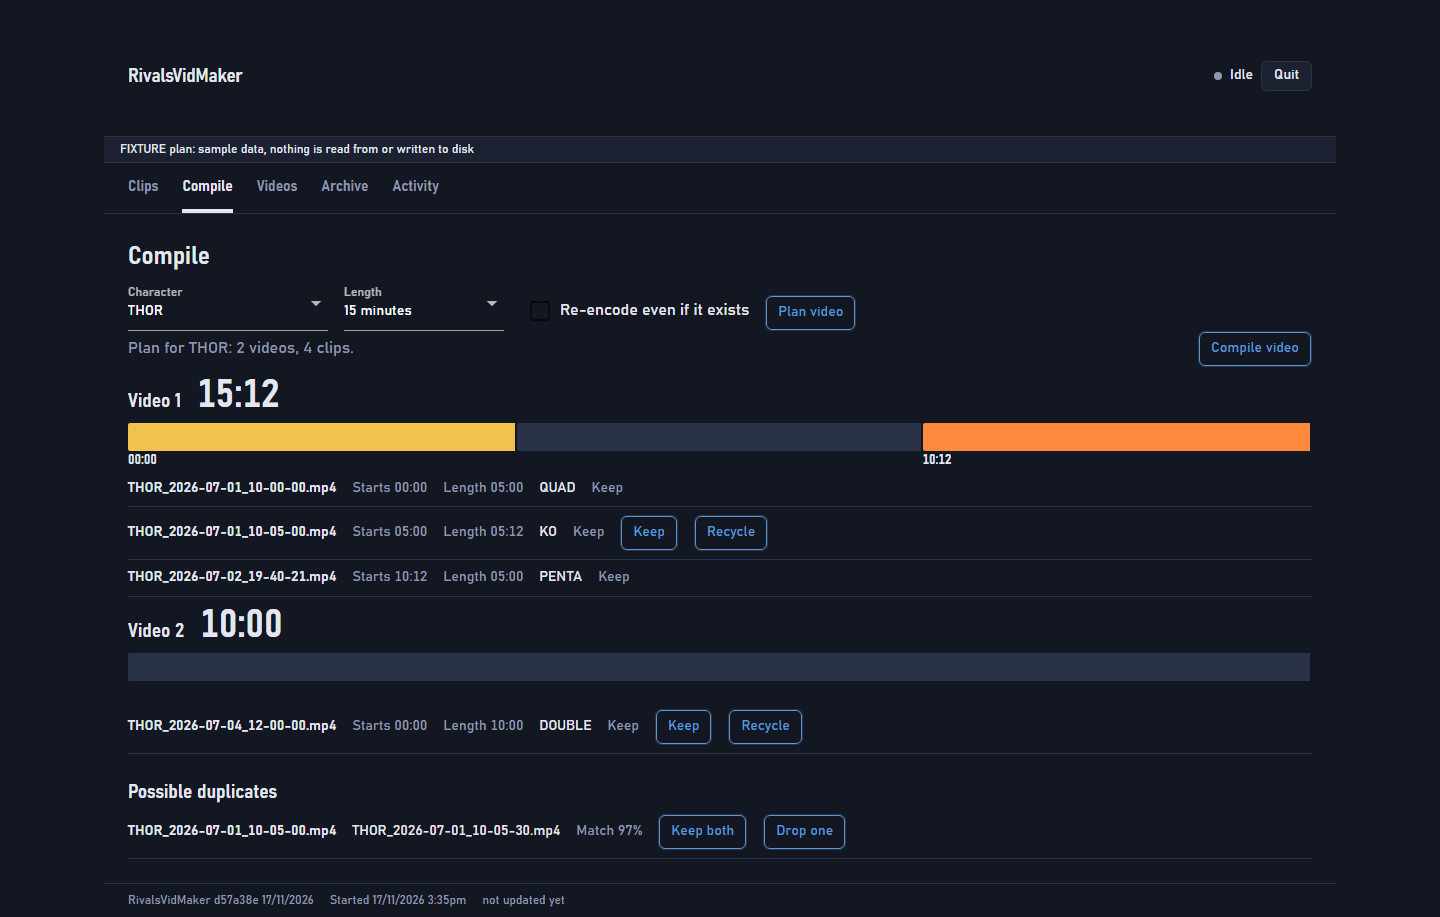
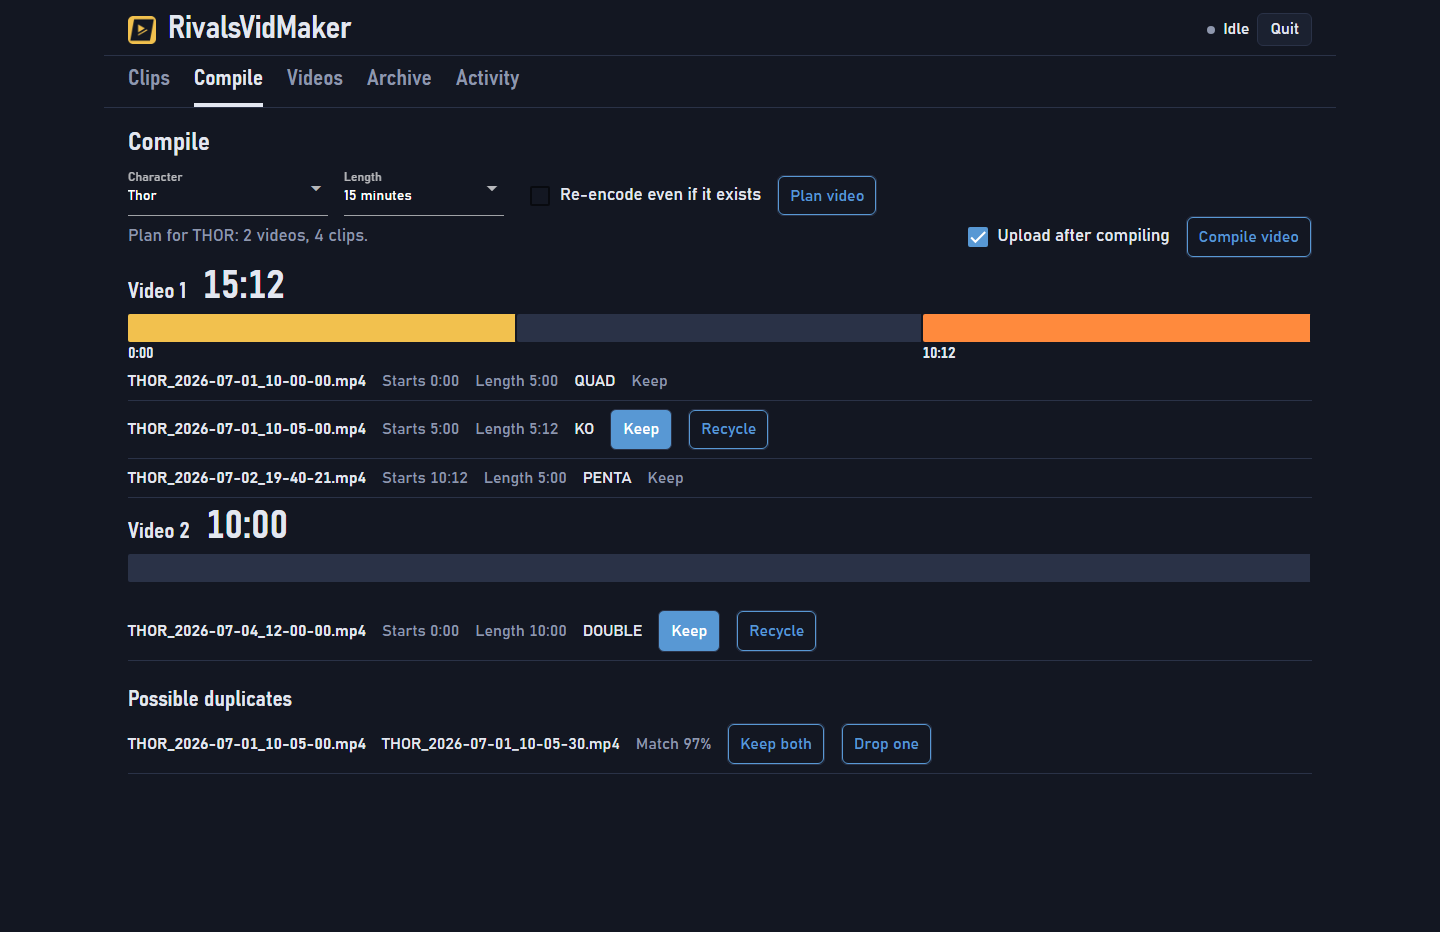
docs: outcome-first README, fresh screenshot, setup in docs/SETUP.md

diff --git a/README.md b/README.md
@@ -2,199 +2,36 @@
 
 [![ko-fi](https://ko-fi.com/img/githubbutton_sm.svg)](https://ko-fi.com/G2G31WKOCN)
 
-Automates building ~15-minute YouTube compilation videos from short [Marvel Rivals](https://www.marvelrivals.com/) gameplay clips. **Completes 15-minute videos in ~10 seconds using stream copy muxing - 50-100x faster than re-encoding.**
+Every multi-kill, found and timestamped for you. Save your best Marvel Rivals plays in game, and RivalsVidMaker turns the pile of short clips into ready-to-upload 15-minute YouTube videos: it finds every Quad, Penta and Hexa, joins the clips in seconds, writes the description with a clickable timestamp for each big kill, and uploads it to your channel. No editor, no scrubbing through footage.
 
-## What it does
+## Why you will want it
 
-1. **Detects** multi-kill events (Quad / Penta / Hexa) in each clip via OCR (Tesseract) with parallel multi-threaded scanning
-2. **Warns** about duplicate clips before encoding using perceptual hashing - prevents wasted processing
-3. **Batches** clips into ~15-minute groups by total duration and merges them in seconds via stream copy (no re-encoding)
-4. **Generates** timestamped YouTube descriptions with clickable kill timestamps
-5. **Uploads** compiled videos to YouTube automatically with OAuth authentication and state tracking
-6. **Archives** Quad+ clips for future Best-of compilations; offers interactive cleanup and recovery options
+- **Every big kill, found for you.** It reads the kill banner in each clip, so every Quad, Penta and Hexa is spotted without you watching anything back.
+- **Timestamps your viewers can click.** Each video comes with a description that jumps straight to every Quad+ moment.
+- **A 15-minute video in seconds.** Clips are joined without re-encoding, so a full video is ready in about ten seconds, not ten minutes.
+- **Straight to YouTube.** Sign in once and it uploads to your channel, remembers what went up, and lets you retry a failed upload later.
+- **No wasted clips.** It warns about near-duplicate clips before building, keeps your Quad+ clips in an archive for a future best-of, and clears the rest to the recycle bin when you are done.
+- **Runs on your PC.** Nothing leaves your machine except the upload you approve.
 
-## Features
+## See it
 
-### Speed & Performance
-- **Lightning-fast encoding**: Stream copy concatenation completes 15-min videos in ~10 seconds. GPU re-encoding takes 5-10 minutes - that's **50-100x faster**. Works because Marvel Rivals clips are uniform H.264 1920x1080 120fps AAC (no codec negotiation needed).
-- **Parallel multi-threaded scanning**: OCR detection runs on multiple clips simultaneously - real concurrency from external FFmpeg + Tesseract processes
-- **Instant re-runs**: File-change aware caching means re-running on the same clips takes ~1 second
+![The Compile tab: a planned 15-minute Thor video with its Quad and Penta clips marked](docs/images/gui-compile.png)
 
-### Automation & Intelligence
-- **YouTube integration**: OAuth authentication, automated upload to your channel, state tracking. Confirm once, retry failed uploads later.
-- **Duplicate detection**: Perceptual hashing (pHash) warns about duplicate clips before wasting time encoding. You decide whether to keep or remove.
-- **Smart state tracking**: Remembers which videos were uploaded, allows retry/recovery, prevents re-uploading the same content
+## How it works
 
-### User Experience
-- **Interactive menu**: Single entry point via `scripts/run.bat` - no command-line flags needed. Arrow-key navigation to:
-  - Compile a new highlights video
-  - Pre-process clips (warm cache without encoding)
-  - Manage output folders (retry uploads, archive clips, recover uncompiled videos)
-  - Browse the archive of Quad+ clips
-- **Comprehensive logging**: Every run saves a timestamped log file with full debug output for troubleshooting
+Double-click `scripts/gui.bat` and the RivalsVidMaker window opens in your browser.
 
-### Workflow
-- **Clip auto-sorting**: Raw clips in Highlights root are auto-sorted into character subfolders
-- **Tier-aware naming**: Clips automatically renamed with kill tier after scanning (e.g., `THOR_..._QUAD.mp4`)
-- **Archive management**: Quad+ clips permanently archived for future "Best-of" compilations; other clips can be safely deleted
-- **Undo option**: "Uncompile" a batch to restore clips back to Highlights and discard output
+1. **Play and save.** Press save on a highlight in Marvel Rivals; clips land in your Highlights folder.
+2. **Clips tab:** sort new clips into one folder per character and scan them for multi-kills.
+3. **Compile tab:** pick a character and press Plan video to see exactly which clips make each 15-minute video and where the big kills land. Press Compile video to build it, and upload it in the same step if you like.
+4. **Videos tab:** open it on YouTube, mark it live, then clean up: Quad+ clips go to the archive, the rest to the recycle bin.
 
-## Workflow Overview
+Prefer a terminal? `scripts/run.bat` opens an arrow-key menu with the same workflow.
 
-```
-Highlights/CHAR/          <- raw clips from gameplay
-  |
-  +--> [Pipeline: sort, scan, batch, encode, upload]
-  |
-Output/CHAR_DATE/         <- compiled MP4, description, source clips
-  |
-  +--> [Cleanup: archive Quad+, delete rest]
-  |
-ClipArchive/CHAR/         <- permanent best-kills archive (never deleted)
-```
+## Get started
 
-**Full process:**
-1. Marvel Rivals auto-saves clips to `Highlights/` - you just press SAVE in-game
-2. Run `scripts/run.bat` - interactive menu guides you through all steps
-3. Select a character with enough clips (~15 min) - tool scans, detects kills, encodes, generates description
-4. Review the output folder and confirm the video looks good
-5. Upload to YouTube via the menu (one-click OAuth, automatic upload)
-6. Cleanup: archive Quad+ clips for future compilations, delete the rest
+One-time setup takes about ten minutes (Python, Tesseract and your folder paths): see [docs/SETUP.md](docs/SETUP.md).
 
-**Smart features:** Duplicate detection warns before encoding. Cache makes re-runs instant. Retry failed uploads anytime. Uncompile if you need to recover clips.
+## Licence
 
-Archive clips accumulate for future "Best-of" compilations and are never auto-deleted.
-
-## Kill Detection (OCR via Tesseract)
-
-The tool scans each clip for multi-kill events using OCR, without needing game API access or video labels. **Scanning is parallelized across all CPU cores** - multiple clips are scanned simultaneously using multi-threaded FFmpeg + Tesseract processes.
-
-**Algorithm:**
-1. **Frame extraction** - FFmpeg extracts frames at 2fps (optimized for speed)
-2. **Region crop** - isolates the banner region (right side, mid-height) where kill tier appears
-3. **Image preprocessing** - grayscale, upscale, invert, sharpen for OCR accuracy
-4. **OCR** - Tesseract reads the tier text (KO, Double, Triple, Quad, Penta, Hexa)
-5. **Event logic** - 2-second cooldown prevents double-counting; early exit if no kill found in likely window
-6. **Caching** - results cached per clip with file-change detection; re-runs are instant
-
-**In YouTube descriptions:** Only Quad+ kills appear as clickable timestamps. Triple and Double detected internally (used for auto-naming clips). Single KO not reported.
-
-**Performance:** First run on a 15-min batch (30-40 clips): ~2-3 min with parallel scanning. Second run on same clips: ~1 second (cache hit).
-
-## Project Structure
-
-```
-RivalsVidMaker/
-├── config/
-│   ├── config.example.json  # Template - copy to config.json and fill in your paths
-│   └── config.json          # Your paths and batch settings (gitignored)
-├── src/
-│   ├── main.py              # CLI entrypoint and interactive menu
-│   ├── pipeline.py          # Main orchestrator: sort -> scan -> batch -> encode -> describe
-│   ├── ko_detect.py         # Tesseract OCR multi-kill banner detection
-│   ├── encoder.py           # FFmpeg encoding (NVENC GPU / libx264 CPU fallback)
-│   ├── preprocess.py        # Pre-process mode: warm KO cache for all clips
-│   └── cleanup.py           # Post-YouTube cleanup (archive Quad+, delete rest)
-├── scripts/
-│   └── run.bat              # Windows launcher (double-click to run)
-├── tests/                   # Pytest test suite
-├── dependencies/
-│   ├── ffmpeg/              # FFmpeg binaries - auto-downloaded on first run (gitignored)
-│   └── yt-dlp.exe           # YouTube downloader (gitignored)
-└── data/                    # Runtime cache and logs (gitignored)
-```
-
-## Setup
-
-### 1. Install dependencies
-
-```bash
-# Python packages
-pip install pytesseract Pillow imagehash questionary google-auth-oauthlib send2trash
-
-# Tesseract OCR (Windows)
-winget install UB-Mannheim.TesseractOCR
-```
-
-**FFmpeg** is downloaded automatically on first run (official FFmpeg builds, auto-extracted to `dependencies/ffmpeg/`). No manual installation needed.
-
-### 2. Configure paths
-
-Copy `config/config.example.json` to `config/config.json` and edit your paths:
-
-```json
-{
-  "clips_path": "C:\\Users\\You\\Videos\\MarvelRivals\\Highlights",
-  "output_path": "C:\\Users\\You\\Videos\\MarvelRivals\\Output",
-  "archive_path": "C:\\Users\\You\\Videos\\MarvelRivals\\ClipArchive",
-  "tesseract_path": "C:\\Program Files\\Tesseract-OCR\\tesseract.exe",
-  "youtube_channel_id": "YOUR_CHANNEL_ID_HERE",
-  "cache_dir": "data\\cache",
-  "target_batch_seconds": 900
-}
-```
-
-### 3. (Optional) Set up YouTube upload
-
-Run the tool once - it will guide you through OAuth authentication when you first try to upload. Your token is saved to `config/token.json` for future uploads.
-
-## Usage
-
-### GUI
-
-Double-click `scripts/gui.bat` to open the RivalsVidMaker window in your browser. It runs on your own machine, at 127.0.0.1 only. Pick a character, plan the video, check the clips it will use, then compile and upload from the same page.
-
-![The Compile tab with a planned 15-minute video](docs/images/gui-compile.png)
-
-```bash
-PYTHONPATH=src python -m gui --launch   # start the GUI and open the browser
-PYTHONPATH=src python -m gui --stop     # stop it
-```
-
-The terminal menu still works and remains the complete workflow until the GUI covers every action.
-
-### Terminal menu
-
-**Primary entry point:** Double-click `scripts/run.bat` and use the interactive menu to access all features (compile, upload, cleanup, etc). No command-line flags needed for normal use.
-
-```bash
-scripts/run.bat             # Windows launcher - recommended for all normal work
-
-# Developer/advanced:
-python src/main.py          # Run directly (uses config/config.json)
-python src/main.py --force  # Re-encode even if output already exists
-python src/ko_detect.py     # Test KO detection standalone
-
-pytest                      # Run test suite
-```
-
-## Tech Stack
-
-- **Language:** Python 3.10+
-- **Video encoding:** [FFmpeg](https://ffmpeg.org/) - stream copy (no re-encoding) for lightning-fast concatenation
-- **OCR:** [Tesseract](https://github.com/UB-Mannheim/tesseract/wiki) via pytesseract for kill-event detection
-- **Duplicate detection:** imagehash (perceptual hashing) + Pillow for frame analysis
-- **UI:** questionary for interactive arrow-key menus
-- **YouTube integration:** google-auth + google-auth-oauthlib for OAuth 2.0 uploads
-- **Testing:** Pytest with comprehensive test coverage (~40 test modules)
-
-## Requirements
-
-- Windows, Python 3.10+
-- [Tesseract OCR](https://github.com/UB-Mannheim/tesseract/wiki)
-- FFmpeg in `dependencies/ffmpeg/`
-- NVIDIA GPU recommended (NVENC) - falls back to CPU automatically
-
-## What Makes This Difficult
-
-**Real-time KO detection via OCR:** The banner detection system is the hardest part - automatically identifying multi-kill tiers from a moving video stream with no labeled training data. Uses perceptual hashing, Tesseract OCR, image preprocessing, and a cooldown state machine to achieve >95% accuracy.
-
-**Stream copy architecture:** YouTube/compilation tools typically re-encode for compatibility. We detected that Marvel Rivals clips are uniform (H.264 1920x1080 120fps AAC), allowing stream copy muxing - eliminating encoding bottleneck entirely.
-
-**Parallel pipeline:** Coordinates FFmpeg frame extraction, Tesseract OCR, and duplicate detection across multiple clips simultaneously while maintaining state and cache coherence.
-
-**YouTube integration:** Full OAuth 2.0 flow with state tracking, retry logic, and multi-account support. Prevents accidental uploads to wrong channel.
-
-## Development
-
-**Built:** March 2026 | **Test coverage:** 40+ test modules | **Active features:** 15+
+[MIT](LICENSE)

diff --git a/docs/SETUP.md b/docs/SETUP.md
@@ -1,0 +1,66 @@
+# Setting up RivalsVidMaker
+
+One-time setup takes about ten minutes. You need Windows and Python 3.10 or newer; an NVIDIA GPU helps but is not required (it falls back to the CPU automatically).
+
+## 1. Install the dependencies
+
+```bash
+# Python packages
+pip install pytesseract Pillow imagehash questionary google-auth-oauthlib send2trash nicegui
+
+# Tesseract OCR (reads the multi-kill banners)
+winget install UB-Mannheim.TesseractOCR
+```
+
+FFmpeg downloads itself on first run (official builds, extracted to `dependencies/ffmpeg/`). Nothing to install by hand.
+
+## 2. Point it at your clips
+
+Copy `config/config.example.json` to `config/config.json` (gitignored) and set your folders:
+
+- `clips_path`: where Marvel Rivals saves highlights (the game's `Highlights` folder).
+- `output_path`: where finished videos and their descriptions go.
+- `archive_path`: where Quad+ clips are kept for future best-of videos.
+- `tesseract_path`: usually `C:\Program Files\Tesseract-OCR\tesseract.exe`.
+- `youtube_channel_id`: your channel, so uploads can never go to the wrong one.
+- `target_batch_seconds`: video length, 900 for 15 minutes.
+
+## 3. Connect YouTube (optional)
+
+The first time you upload, RivalsVidMaker opens a Google sign-in in your browser. The token is saved to `config/token.json` (gitignored) for later uploads. Background detail: [YOUTUBE_API.md](YOUTUBE_API.md).
+
+## 4. Run it
+
+- **GUI:** double-click `scripts/gui.bat`. It runs on your own machine at 127.0.0.1 only and opens in your browser.
+- **Terminal menu:** double-click `scripts/run.bat` for the arrow-key menu (compile, pre-process, manage outputs, browse the archive). It still covers every action while the GUI catches up.
+
+## Command line
+
+```bash
+PYTHONPATH=src python -m gui --launch   # start the GUI and open the browser
+PYTHONPATH=src python -m gui --stop     # stop it
+python src/main.py                      # terminal menu, uses config/config.json
+python src/main.py --force              # re-encode even if the output already exists
+python src/ko_detect.py                 # try multi-kill detection on its own
+pytest                                  # run the tests
+```
+
+Every run writes a timestamped log under `data/logs/`.
+
+## How the pieces fit
+
+```
+Highlights/CHAR/     raw clips, saved in game
+   -> sort, scan, batch, merge, describe, upload
+Output/CHAR_DATE/    finished MP4, description, source clips
+   -> clean up: Quad+ to the archive, the rest to the recycle bin
+ClipArchive/CHAR/    your best kills, never deleted automatically
+```
+
+- **Multi-kill detection:** FFmpeg samples each clip at 2 fps, the kill banner is cropped and cleaned up, Tesseract reads the tier, and a short cooldown stops one banner counting twice. Results are cached per clip, so a re-run is instant. Full method: [MULTIKILL_DETECTION.md](MULTIKILL_DETECTION.md).
+- **Fast merging:** Marvel Rivals clips share one format (H.264, 1920x1080, AAC), so they are joined by stream copy with no re-encoding, which takes seconds instead of minutes.
+- **Descriptions:** each video gets a description with a clickable timestamp for every Quad, Penta and Hexa. Title and wording guide: [YOUTUBE_TITLE_AND_DESC.md](YOUTUBE_TITLE_AND_DESC.md).
+
+## Built with
+
+Python, [FFmpeg](https://ffmpeg.org/), [Tesseract](https://github.com/UB-Mannheim/tesseract/wiki), imagehash and Pillow for duplicate checks, NiceGUI for the GUI, questionary for the terminal menu, and the YouTube Data API through google-auth-oauthlib.
